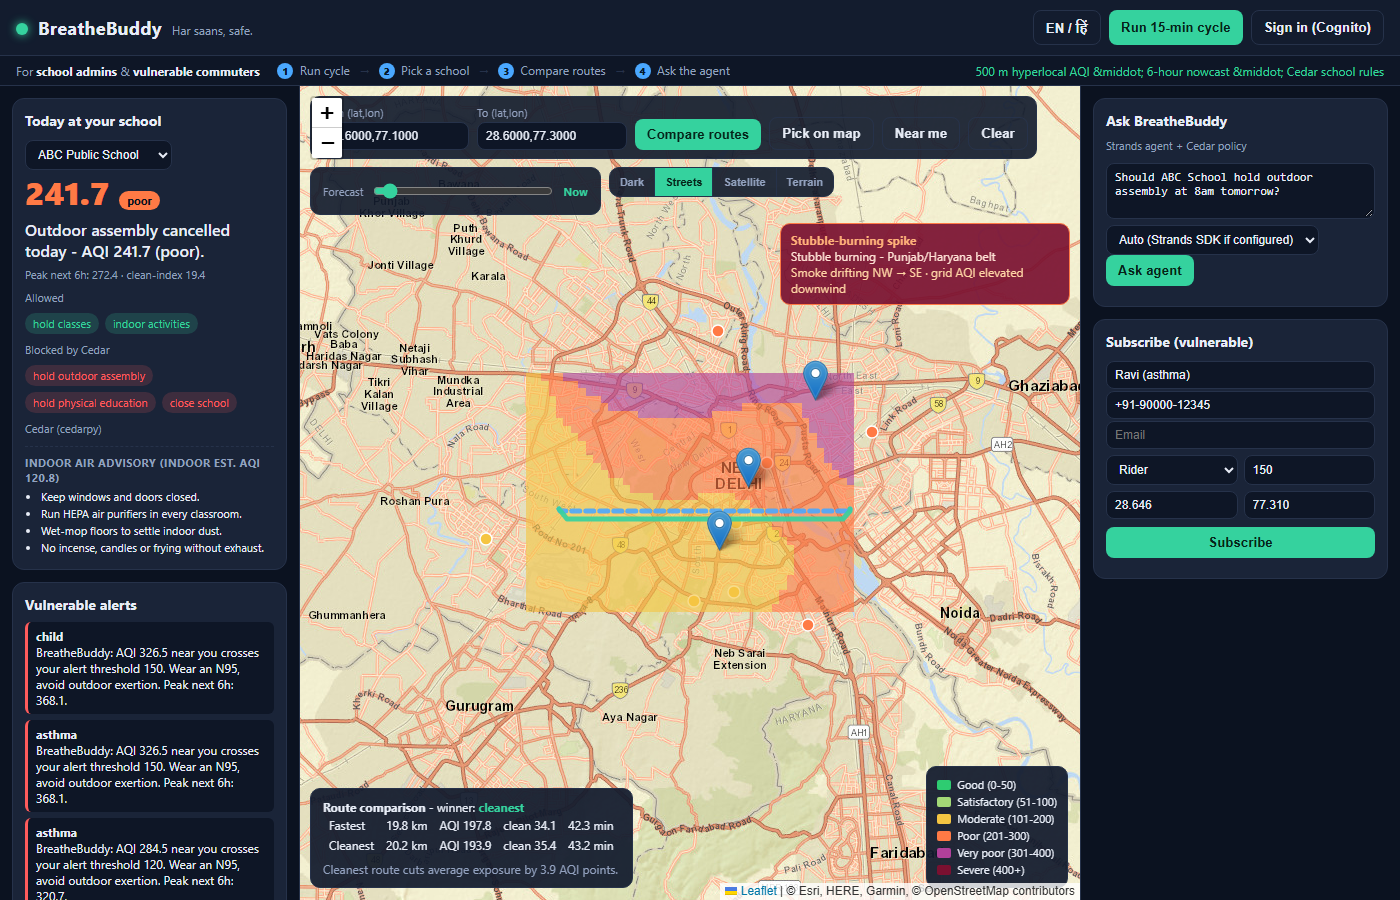
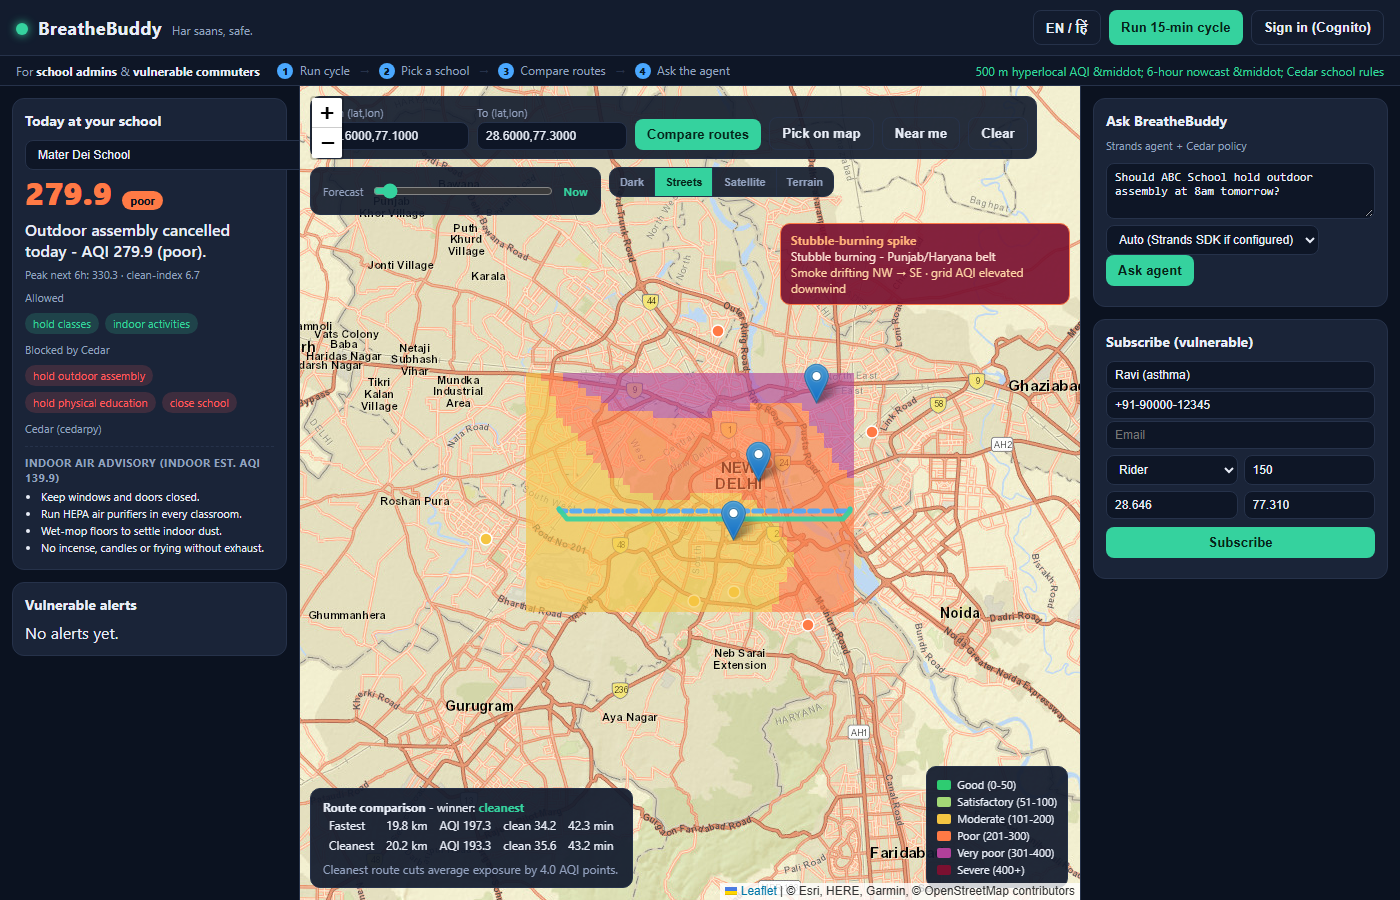
Use real Delhi school names (Mater Dei, Ambedkar University, Rose Merry) in demo + refreshed screenshots

diff --git a/scripts/selfcheck.py b/scripts/selfcheck.py
@@ -96,7 +96,7 @@ def main() -> int:
     # ------------------------------------------------------------------ agent
     section("Agent")
     from breathebuddy import agent as agent_mod
-    ans = agent_mod.ask("Should ABC School hold outdoor assembly at 8am tomorrow?")
+    ans = agent_mod.ask("Should Mater Dei School hold outdoor assembly at 8am tomorrow?")
     check("agent returns an answer", bool(ans.get("answer")))
     check("agent took action (blocked -> alert)", "Alert sent" in ans["answer"] or "not allowed" in ans["answer"])
     check("deterministic engine usable", agent_mod.ask("aqi", prefer_strands=False)["engine"] == "simple")
@@ -148,7 +148,7 @@ def main() -> int:
         check("GET /buffer", "buffered" in get("/buffer"))
         sub = post("/subscribe", {"name": "API", "threshold_aqi": 90, "lat": 28.6, "lon": 77.2})
         check("POST /subscribe", sub["subscriber_id"].startswith("sub_"))
-        ag = post("/agent", {"question": "Should ABC School hold outdoor assembly tomorrow?"})
+        ag = post("/agent", {"question": "Should Mater Dei School hold outdoor assembly tomorrow?"})
         check("POST /agent", "answer" in ag)
         check("POST /agent engine=simple", post("/agent", {"question": "aqi", "engine": "simple"})["engine"] == "simple")
         cyc = post("/cycle", {})

diff --git a/tests/test_agent.py b/tests/test_agent.py
@@ -32,14 +32,14 @@ class TestAgent(unittest.TestCase):
 
     def test_ask_falls_back_without_credentials(self):
         # No Bedrock credentials in CI/local -> must still return a usable answer.
-        res = ask("Should ABC School hold outdoor assembly tomorrow?",
+        res = ask("Should Mater Dei School hold outdoor assembly tomorrow?",
                   prefer_strands=True)
         self.assertIn("answer", res)
         self.assertTrue(res["answer"])
         self.assertIn(res["engine"], ("strands", "simple"))
 
     def test_simple_engine_always_offline(self):
-        res = ask("Should ABC School hold outdoor assembly tomorrow?", prefer_strands=False)
+        res = ask("Should Mater Dei School hold outdoor assembly tomorrow?", prefer_strands=False)
         self.assertEqual(res["engine"], "simple")
         self.assertTrue(res["answer"])
 

diff --git a/src/breathebuddy/demo.py b/src/breathebuddy/demo.py
@@ -52,7 +52,7 @@ def main() -> None:
         print(f"  cedar outdoor_assembly -> allowed={dec['allowed']} ({dec['reason']})")
 
     line("5. STRANDS AGENT (deterministic fallback if SDK absent)")
-    q = "Should ABC School hold outdoor assembly at 8am tomorrow?"
+    q = "Should Mater Dei School hold outdoor assembly at 8am tomorrow?"
     ans = agent_mod.ask(q, prefer_strands=False)
     print(f"Q: {q}")
     print(f"A: {ans['answer']}")

diff --git a/demo/demo_script.md b/demo/demo_script.md
@@ -24,7 +24,7 @@ with `python run.py --demo` ready as a fallback proof. Screen-record with audio.
 ## 0:25 - 1:10 · What it does - hyperlocal nowcast + school card
 
 **On screen:** hover the 500 m grid; click **Run 15-min cycle**; open
-**ABC Public School** in the "Today at your school" card.
+**Mater Dei School** in the "Today at your school" card.
 
 > "This is a 500-metre hyperlocal grid - not one city number, but street-level air,
 > with a 6-hour nowcast per cell. Ingest runs every 15 minutes. Drag the **forecast
@@ -33,7 +33,7 @@ with `python run.py --demo` ready as a fallback proof. Screen-record with audio.
 > **terrain** - switch any time; the dark style is cached so it even works offline.
 > Notice the banner: a **stubble-burning spike** - the model adds a
 > wind-driven smoke plume to every cell downwind, so the whole north-west lights up.
-> Now look at ABC Public School: AQI 218, **poor**. The card tells the admin exactly
+> Now look at Mater Dei School: AQI ~280, **poor**. The card tells the admin exactly
 > what Cedar allows - outdoor assembly and PE are **blocked**, classes move indoors -
 > and the **indoor air advisory** estimates indoor AQI and says keep windows shut and
 > run purifiers. At AQI 300-plus it would close the school and switch to remote
@@ -56,7 +56,7 @@ with `python run.py --demo` ready as a fallback proof. Screen-record with audio.
 ## 1:45 - 2:15 · Vulnerable alerts + the agent
 
 **On screen:** submit the **Subscribe** form; point at the new alert; then
-**Ask agent** with "Should ABC School hold outdoor assembly at 8am tomorrow?"
+**Ask agent** with "Should Mater Dei School hold outdoor assembly at 8am tomorrow?"
 
 > "Riders and asthma patients subscribe with their own threshold and location.
 > The moment local AQI crosses it, BreatheBuddy fires an alert - here to the local
@@ -101,7 +101,7 @@ with `python run.py --demo` ready as a fallback proof. Screen-record with audio.
   template, stubble plume, Strands SDK, SQS buffer, JWT auth, OpenAQ adapter, no
   out-of-list AWS services).
 - `python run.py --demo` → all five acceptance criteria printed.
-- `python -m unittest discover -s tests -t .` → **52 tests pass** (CI runs these).
+- `python -m unittest discover -s tests -t .` → **56 tests pass** (CI runs these).
 
 ---
 
@@ -122,7 +122,7 @@ with `python run.py --demo` ready as a fallback proof. Screen-record with audio.
 | 0:00 | Map, pan slowly over red hotspots | Problem + who it's for |
 | 0:25 | Click **Run 15-min cycle**, wait for map refresh | "every 15 minutes…" |
 | 0:35 | Point at **stubble-burning banner** (top-right of map) | wind-driven plume raises downwind AQI |
-| 0:45 | Click **ABC Public School**, read card + indoor advisory aloud | AQI 218, assembly/PE blocked, Cedar |
+| 0:45 | Click **Mater Dei School**, read card + indoor advisory aloud | AQI ~280, assembly/PE blocked, Cedar |
 | 0:55 | Point at "Allowed" vs "Blocked by Cedar" chips | "policy, not opinion" |
 | 1:10 | Click **Compare routes** | fastest vs cleanest, a few AQI saved |
 | 1:25 | Point at blue dashed vs green line + stats box | clean-index |

diff --git a/docs/img/README.md b/docs/img/README.md
@@ -19,7 +19,7 @@ python run.py          # open http://localhost:8000
 1. **Dashboard** - the landing view, after clicking "Run 15-min cycle".
 2. **Forecast slider** - drag the time-slider to a later hour; the map recolours.
 3. **Route compare** - click "Compare routes", or use "Pick on map" / "Near me".
-4. **School + agent** - pick a school, and ask the agent a question (e.g. "Should ABC
+4. **School + agent** - pick a school, and ask the agent a question (e.g. "Should Mater Dei
    School hold outdoor assembly at 8am tomorrow?").
 
 Capture each view at ~1400x900 and overwrite the matching file above. Keep each

diff --git a/docs/SUBMISSION.md b/docs/SUBMISSION.md
@@ -41,7 +41,7 @@ can tap two points on the map or use "Near me".
 The decision layer is the heart of it: school schedule rules are written as **Cedar
 policies**, so the answer is *policy, not opinion*. At AQI 153 outdoor assembly is
 blocked but classes continue; at 300+ the school closes and moves remote. A **Strands
-Agents SDK** agent answers natural-language questions ("Should ABC School hold outdoor
+Agents SDK** agent answers natural-language questions ("Should Mater Dei School hold outdoor
 assembly at 8am tomorrow?") by calling tools, running the Cedar policy and sending the
 alert.
 

diff --git a/README.md b/README.md
@@ -196,8 +196,8 @@ curl -X POST http://localhost:8000/subscribe \
 
 ```bash
 curl -X POST http://localhost:8000/agent -H "Content-Type: application/json" \
-  -d '{"question":"Should ABC School hold outdoor assembly at 8am tomorrow?"}'
-# -> "No - hold outdoor assembly at ABC Public School is not allowed (predicted AQI ~210).
+  -d '{"question":"Should Mater Dei School hold outdoor assembly at 8am tomorrow?"}'
+# -> "No - hold outdoor assembly at Mater Dei School is not allowed (predicted AQI ~300).
 #     Alert sent to school admin via SNS."
 ```
 

diff --git a/docs/BLOG.md b/docs/BLOG.md
@@ -50,7 +50,7 @@ another AQI map. It was a system that **predicts, warns, and acts**.
    "Today at your school" card with an **indoor-air advisory**, and an agent you can
    just ask. The UI is bilingual (English and Hindi).
 
-Ask it in plain language, *"Should ABC School hold outdoor assembly at 8am tomorrow?"*,
+Ask it in plain language, *"Should Mater Dei School hold outdoor assembly at 8am tomorrow?"*,
 and the Strands agent fetches the AQI, runs the Cedar policy, and sends the alert,
 returning a reasoned decision with an action.
 
